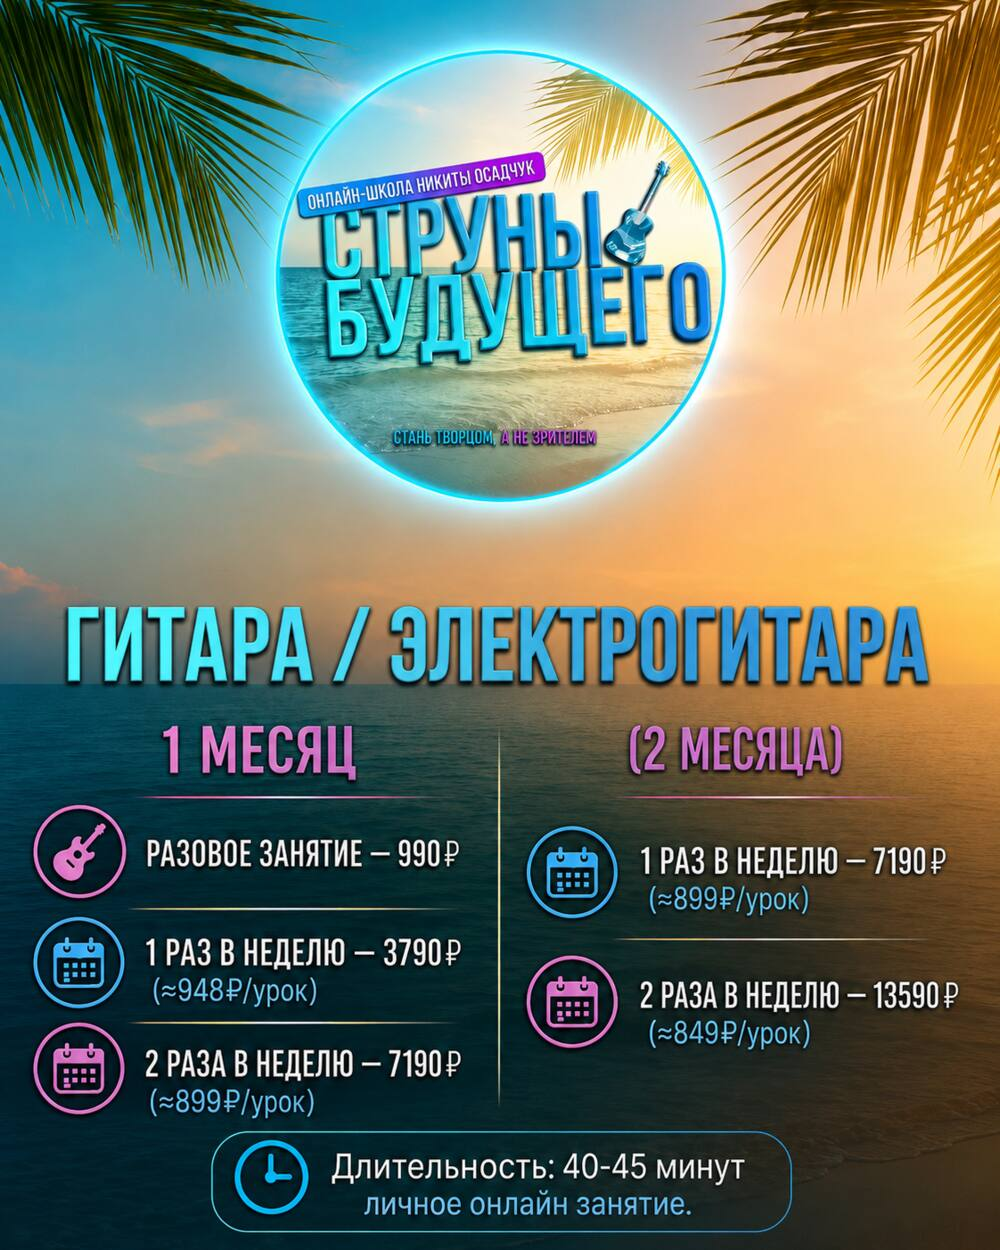
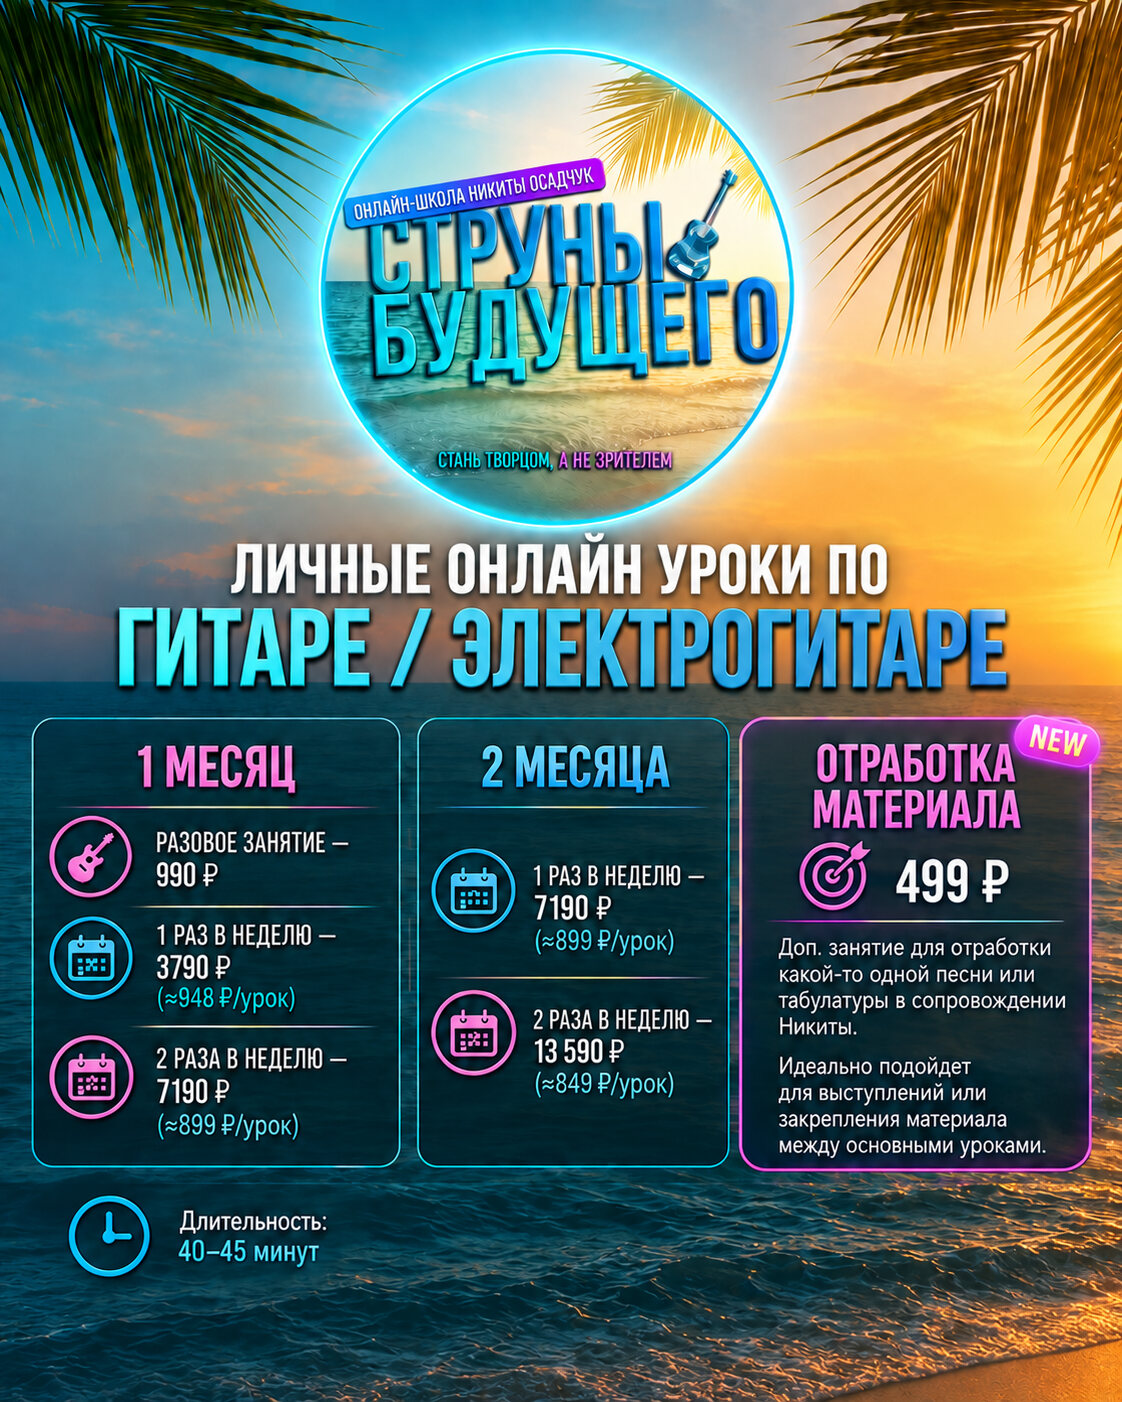
Replace student guide rules and pricing images

diff --git a/public/student-info/index.html b/public/student-info/index.html
@@ -171,7 +171,7 @@
       <p class="sub">Нажмите на изображение, чтобы открыть его крупнее.</p>
       <div class="gallery">
         <figure>
-          <a href="rules.svg" target="_blank" rel="noopener"><img src="rules.svg" alt="Правила абонементов" loading="lazy"></a>
+          <a href="rules.jpg?v=20260924-1" target="_blank" rel="noopener"><img src="rules.jpg?v=20260924-1" alt="Правила абонементов" loading="lazy"></a>
           <figcaption>Правила абонементов, переноса и отмены занятий.</figcaption>
         </figure>
         <figure>
@@ -179,8 +179,8 @@
           <figcaption>Реквизиты и QR-код для оплаты.</figcaption>
         </figure>
         <figure>
-          <a href="prices.jpg" target="_blank" rel="noopener"><img src="prices.jpg" alt="Стоимость индивидуальных занятий" loading="lazy"></a>
-          <figcaption>Абонементы на индивидуальные занятия.</figcaption>
+          <a href="prices.jpg?v=20260924-1" target="_blank" rel="noopener"><img src="prices.jpg?v=20260924-1" alt="Стоимость индивидуальных занятий" loading="lazy"></a>
+          <figcaption>Абонементы и дополнительное занятие «Отработка материала».</figcaption>
         </figure>
         <figure>
           <a href="video-lessons.jpg" target="_blank" rel="noopener"><img src="video-lessons.jpg" alt="Подписка на видеоуроки" loading="lazy"></a>
